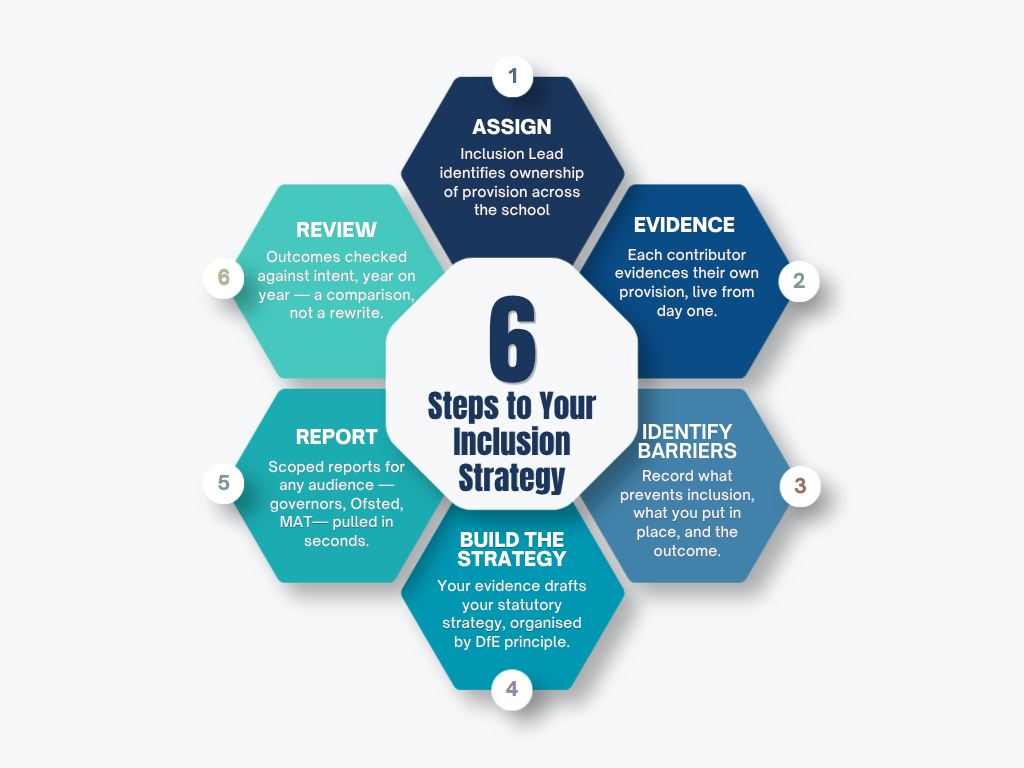
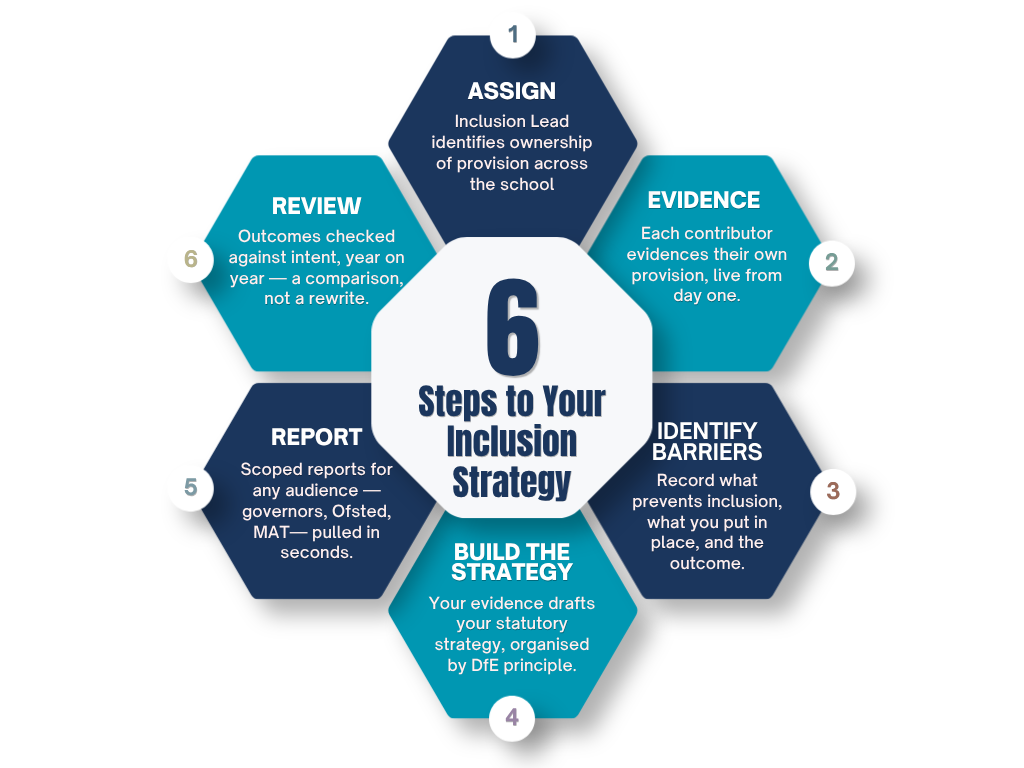
Move cycle diagram into the Review tab
The diagram now illustrates the final "Review" step directly instead of
sitting statically above the tab component, using the same image pattern
as the other five tabs.

Changed region(s): [[0.1562, 0.0312, 0.875, 1.0]]

diff --git a/src/pages/LandingPage.jsx b/src/pages/LandingPage.jsx
@@ -128,6 +128,8 @@ export default function LandingPage() {
     {
       label: '6. Review',
       body: 'Outcomes are checked against intent, year on year — a comparison, not a rewrite. Next year\'s strategy starts from evidence, not a blank page, closing the loop back to Assign.',
+      img: '/images/landing/cycle-diagram-six-steps.png',
+      imgAlt: 'Six-step Inclusion Dashboard cycle diagram: Assign, Evidence, Identify Barriers, Build the Strategy, Report, Review, looping back to Assign',
     },
   ]
 
@@ -310,11 +312,6 @@ export default function LandingPage() {
         <h2 className="lp-how__headline">
           How Inclusion Dashboard works — one continuous cycle
         </h2>
-        <img
-          src="/images/landing/cycle-diagram-six-steps.png"
-          alt="Six-step Inclusion Dashboard cycle diagram: Assign, Evidence, Identify Barriers, Build the Strategy, Report, Review, looping back to Assign"
-          className="lp-how__diagram"
-        />
         <div className="lp-how__tabs">
           <div className="lp-how__tab-list">
             {tabs.map((t, i) => (

diff --git a/src/pages/LandingPage.css b/src/pages/LandingPage.css
@@ -297,14 +297,6 @@ a:hover .hero-image-overlay {
   margin: 0 auto 3rem;
   line-height: 1.25;
 }
-.lp-how__diagram {
-  display: block;
-  width: 100%;
-  max-width: 700px;
-  height: auto;
-  margin: 0 auto 3rem;
-  border-radius: 12px;
-}
 .lp-how__tabs {
   max-width: 1100px;
   margin: 0 auto;

diff --git a/TASKS.md b/TASKS.md
@@ -396,6 +396,7 @@ Never rewrite existing query logic in same session as any migration.
 - [x] **Session 32 — Landing page four-step restructure** — How It Works section restructured from three tabs to four. New Step 2 "Identify" added with barrier identification copy (EEF implementation cycle framing), heading, and `/barriers-dashboard.png` image. Step 3 "Analyse" image updated to `/analysis-dashboard.png`. Step 4 "Report" image updated to `/report-dashboard.png`. Section heading updated to "four steps". Eyebrow pill updated to "Inclusion Strategy deadline: 31 Dec 2026 · Full statutory compliance: 2028–29". Problem section heading changed to "The challenge schools are navigating" with new body paragraph (7 principles framing). Hero image ref updated to `/hero-dashboard.png`. MAT section image ref updated to `/mat-dashboard.png`. 29 June 2026.
 - [x] **Session 29 — Connect barriers to Inclusion Strategy PDF** — `generateInclusionStrategy` now accepts `barriers` param (fetched in App.jsx alongside entries/pps, excluding resolved). Domain→principle map derived from provision points data. Each principle section: amber barriers block (header band, per-barrier rows with description, domain/sub-domain, status/scale/group tags, actions) shown before provision evidence; sub-heading updated to "X of N provision points in place · Y barrier(s) identified" when barriers present. Cover page shows "Barriers identified: N" in amber when N > 0. Principles with no barriers render unchanged. Working Report export untouched. 28 June 2026.
 - [x] **Session 33 — Landing page six-step restructure** — How It Works section expanded from four tabs to six, matching the new "Assign → Evidence → Identify Barriers → Build the Strategy → Report → Review" cycle. Old "Analyse" tab retired (`analysis-dashboard.png` left in place in `/public`, unused, in case it's wanted elsewhere later). New static cycle diagram (`cycle-diagram-six-steps.png`) added above the tabs, always visible regardless of active tab. Section headline replaced with "How Inclusion Dashboard works — one continuous cycle". New Step 6 "Review" has no image; tab panel renders cleanly with no image (existing conditional render + `min-height: 400px` on `.lp-how__tab-panel` already handled this — no layout shift). Image consolidation: `step1-assign.png`, `barriers-dashboard.png`, `step4-build-strategy.png`, `report-dashboard.png`, `cycle-diagram-six-steps.png` moved from `/public` into `/public/images/landing`, joining `howitworks-evidence.png`. All `img` paths in `LandingPage.jsx` updated to match. New `.lp-how__diagram` CSS rule added in `LandingPage.css`. 2 July 2026.
+- [x] **Session 34 — Cycle diagram moved into Review tab** — `cycle-diagram-six-steps.png` relocated from its static position above the tabs into the "Review" tab's content, using the same `img`/`imgAlt` pattern and `lp-how__tab-img` class as the other five tabs. Static image and its wrapper removed from above `.lp-how__tabs`; now-unused `.lp-how__diagram` CSS rule removed from `LandingPage.css`. Section headline "How Inclusion Dashboard works — one continuous cycle" kept in place as the general section title (reads fine without the diagram directly beneath it). Review tab body copy unchanged. 2 July 2026.
 
 ---
 
